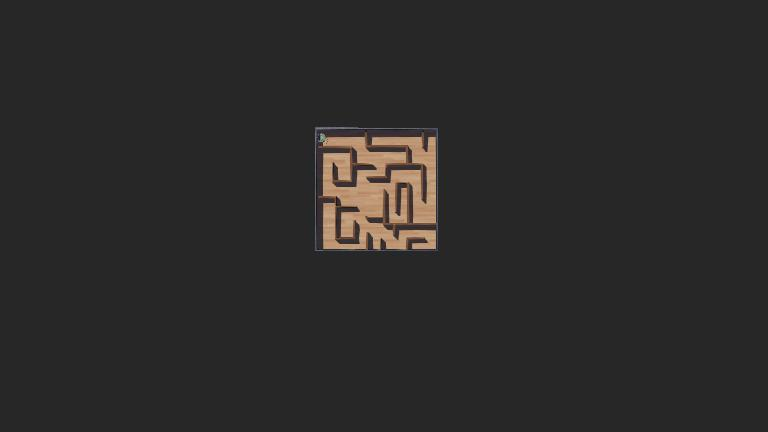
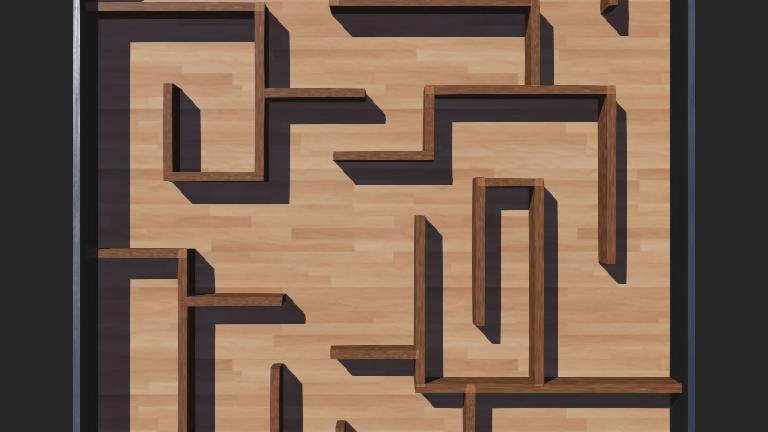
wip: pid control

diff --git a/controllers/pid_control/pid_control.cpp b/controllers/pid_control/pid_control.cpp
@@ -1,0 +1,116 @@
+#include <array>
+#include <algorithm>
+
+#include <webots/Camera.hpp>
+#include <webots/DistanceSensor.hpp>
+#include <webots/Motor.hpp>
+#include <webots/Robot.hpp>
+
+constexpr unsigned int TIME_STEP = 32;
+constexpr double DT = TIME_STEP / 1000.0; // in seconds
+constexpr double MIN_SPEED = -6.28;
+constexpr double MAX_SPEED = 6.28;
+constexpr double WALL_THRESHOLD = 100;
+constexpr double BASE_SPEED = 3.14;
+
+// All the webots classes are defined in the "webots" namespace
+using namespace webots;
+using velocity = double;
+
+std::pair<velocity, velocity>
+adjust_speeds(double output)
+{
+
+    velocity l_speed = std::clamp(BASE_SPEED - output, MIN_SPEED, MAX_SPEED);
+
+    velocity r_speed = std::clamp(BASE_SPEED + output, MIN_SPEED, MAX_SPEED);
+
+    return {l_speed, r_speed};
+}
+
+class PID_Controller
+{
+public:
+    explicit PID_Controller(double kp, double ki, double kd) : kp_(kp), ki_(ki), kd_(kd), prev_err_(0.0), sum_err_(0.0) {}
+
+    double step(double setpoint, double measured, double dt)
+    {
+        double err = setpoint - measured;
+
+        sum_err_ += err * dt;
+
+        double derivative_err = (err - prev_err_) / dt;
+        prev_err_ = err;
+
+        return kp_ * err +
+               ki_ * sum_err_ +
+               kd_ * derivative_err;
+    }
+
+private:
+    double prev_err_;
+    double sum_err_;
+
+    double const kp_;
+    double const ki_;
+    double const kd_;
+};
+
+// entry point of the controller
+int main(int argc, char **argv)
+{
+    // create the Robot instance
+    Robot robot;
+
+    // ==================================== initialize devices ====================================
+    // init motors
+    Motor *lm = robot.getMotor("left wheel motor");
+    Motor *rm = robot.getMotor("right wheel motor");
+
+    lm->setPosition(INFINITY);
+    rm->setPosition(INFINITY);
+
+    // init cam
+    Camera *cam = robot.getCamera("camera");
+    cam->enable(TIME_STEP);
+
+    // init side sensors
+    std::array<DistanceSensor *, 8> ps{
+        robot.getDistanceSensor("ps0"), // forward right
+        robot.getDistanceSensor("ps1"), // top right
+        robot.getDistanceSensor("ps2"), // right
+        robot.getDistanceSensor("ps3"), // bottom right
+        robot.getDistanceSensor("ps4"), // bottom left
+        robot.getDistanceSensor("ps5"), // left
+        robot.getDistanceSensor("ps6"), // top left
+        robot.getDistanceSensor("ps7"), // forward left
+    };
+
+    for (auto *sensor : ps)
+    {
+        sensor->enable(TIME_STEP);
+    }
+
+    constexpr double kp = 0.5;
+    constexpr double ki = 0.5;
+    constexpr double kd = 0.5;
+    PID_Controller ctrl{kp, ki, kd};
+
+    // ==================================== main loop ====================================
+
+    while (robot.step(TIME_STEP) != -1)
+    {
+        // Measure distance from wall
+        double dist_left = ps[5]->getValue();
+
+        // Compute output given setpoint, error, and time increment dt
+        double output = ctrl.step(WALL_THRESHOLD, dist_left, TIME_STEP);
+
+        auto [l_speed, r_speed] = adjust_speeds(output);
+
+        lm->setVelocity(l_speed);
+        rm->setVelocity(r_speed);
+    }
+
+    return 0;
+}